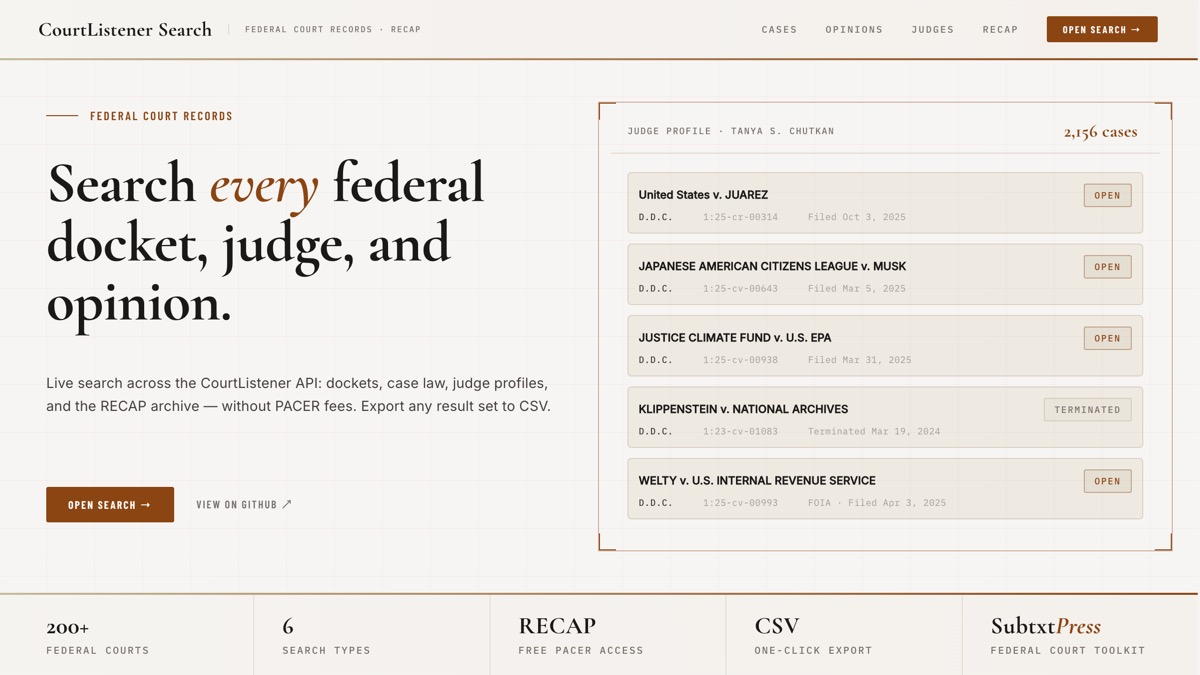
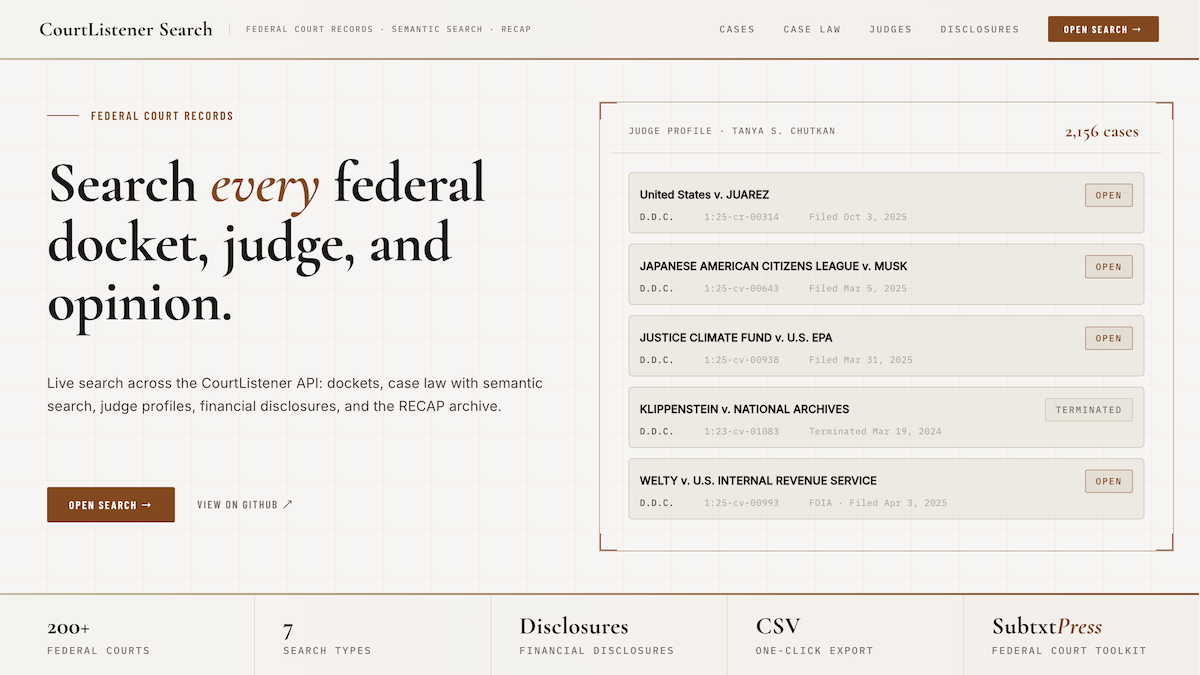
updated support files

diff --git a/projects/CourtListener/readme.html b/projects/CourtListener/readme.html
@@ -589,8 +589,8 @@
       </div>
       <div class="feature-card">
         <h3>Case Law Search</h3>
-        <p>Search published opinions and decisions by keyword, court, or citation.</p>
-        <span class="feature-tag">search tab</span>
+        <p>Search published opinions and decisions by keyword or natural language with semantic search.</p>
+        <span class="feature-tag hot">semantic search</span>
       </div>
       <div class="feature-card">
         <h3>Judge Lookup</h3>
@@ -601,6 +601,11 @@
         <h3>Judge Profile</h3>
         <p>One-click bio, positions, and recent assigned dockets for a single judge.</p>
         <span class="feature-tag hot">featured</span>
+      </div>
+      <div class="feature-card">
+        <h3>Judge Disclosures</h3>
+        <p>View a judge's financial disclosure filings — investments, positions, gifts, debts, and reimbursements by year.</p>
+        <span class="feature-tag hot">new</span>
       </div>
       <div class="feature-card">
         <h3>RECAP Archive</h3>
@@ -670,7 +675,7 @@
       <div class="step">
         <span class="step-num">1</span>
         <div class="step-body">
-          <p>Select a search type from the tabs: Cases, Opinions, Judges, Judge Profile, RECAP, or Courts.</p>
+          <p>Select a search type from the tabs: Cases, Case Law, Judges, Judge Profile, Judge Disclosures, RECAP Archive, or Courts.</p>
         </div>
       </div>
       <div class="step">
@@ -694,8 +699,13 @@
     </div>
 
     <div class="info-box info-neutral animate d4">
-      <div class="info-head">Judge Profile</div>
-      <p>The <strong>Judge Profile</strong> tab returns a single judge's bio, positions, and recent dockets in one view. The <strong>Export CSV</strong> button downloads that judge's full docket list.</p>
+      <div class="info-head">Semantic Search</div>
+      <p>On the <strong>Case Law</strong> tab, click the <code>&amp;</code>/<code>?</code> toggle to switch between keyword and semantic search. Semantic search finds cases by meaning — e.g., "tenant evicted for having a dog" finds pet-related housing cases, not just results containing those exact words. Wrap terms in "quotes" for hybrid keyword + semantic matching.</p>
+    </div>
+
+    <div class="info-box info-neutral animate d4">
+      <div class="info-head">Judge Profile &amp; Disclosures</div>
+      <p>The <strong>Judge Profile</strong> tab returns a single judge's bio, positions, and recent dockets in one view. The <strong>Judge Disclosures</strong> tab shows their financial disclosure filings — investments, outside positions, gifts, debts, and reimbursements organized by year.</p>
     </div>
 
     <!-- API Reference -->
@@ -710,9 +720,10 @@
         </thead>
         <tbody>
           <tr><td>GET /api/search/cases</td><td>Docket search by party, judge, court</td></tr>
-          <tr><td>GET /api/search/opinions</td><td>Case law search by keywords</td></tr>
+          <tr><td>GET /api/search/opinions</td><td>Case law search — add <code>&amp;semantic=true</code> for semantic search</td></tr>
           <tr><td>GET /api/search/judges</td><td>Judge lookup by name</td></tr>
           <tr><td>GET /api/judge-profile</td><td>Single-judge bio + recent assigned dockets</td></tr>
+          <tr><td>GET /api/judge-disclosures</td><td>Judge financial disclosures (investments, gifts, debts)</td></tr>
           <tr><td>GET /api/search/recap</td><td>RECAP archive search</td></tr>
           <tr><td>GET /api/courts</td><td>List all federal courts</td></tr>
           <tr><td>GET /api/case/{id}</td><td>Get single case details</td></tr>
@@ -726,14 +737,20 @@
       <div class="code-block"><code><span class="comment"># Search cases by party</span>
 curl "http://localhost:8000/api/search/cases?party=Apple&amp;limit=10"
 
-<span class="comment"># Search case law</span>
+<span class="comment"># Search case law (keyword)</span>
 curl "http://localhost:8000/api/search/opinions?query=patent&amp;court=cafc&amp;limit=10"
+
+<span class="comment"># Search case law (semantic — finds cases by meaning)</span>
+curl "http://localhost:8000/api/search/opinions?query=tenant+evicted+for+having+a+dog&amp;semantic=true&amp;limit=10"
 
 <span class="comment"># Find judges</span>
 curl "http://localhost:8000/api/search/judges?name=Roberts&amp;limit=10"
 
 <span class="comment"># Pull a full judge profile in one call</span>
-curl "http://localhost:8000/api/judge-profile?name=Tanya+Chutkan&amp;max_cases=25"</code></div>
+curl "http://localhost:8000/api/judge-profile?name=Tanya+Chutkan&amp;max_cases=25"
+
+<span class="comment"># Get a judge's financial disclosures</span>
+curl "http://localhost:8000/api/judge-disclosures?name=Chutkan"</code></div>
     </div>
 
     <div class="card animate d5">

diff --git a/projects/CourtListener/img/courtlistener-preview.html b/projects/CourtListener/img/courtlistener-preview.html
@@ -413,12 +413,12 @@
 
   <div class="nav">
     <span class="nav-brand">CourtListener Search</span>
-    <span class="nav-sub">Federal Court Records · RECAP</span>
+    <span class="nav-sub">Federal Court Records · Semantic Search · RECAP</span>
     <div class="nav-links">
       <span class="nav-link">Cases</span>
-      <span class="nav-link">Opinions</span>
+      <span class="nav-link">Case Law</span>
       <span class="nav-link">Judges</span>
-      <span class="nav-link">RECAP</span>
+      <span class="nav-link">Disclosures</span>
       <span class="nav-cta">Open Search →</span>
     </div>
   </div>
@@ -436,7 +436,7 @@
       </h1>
 
       <p class="desc">
-        Live search across the CourtListener API: dockets, case law, judge profiles, and the RECAP archive — without PACER fees. Export any result set to CSV.
+        Live search across the CourtListener API: dockets, case law with semantic search, judge profiles, financial disclosures, and the RECAP archive.
       </p>
 
       <div class="cta-row">
@@ -529,12 +529,12 @@
         <div class="stat-label">Federal Courts</div>
       </div>
       <div class="stat">
-        <div class="stat-value">6</div>
+        <div class="stat-value">7</div>
         <div class="stat-label">Search Types</div>
       </div>
       <div class="stat">
-        <div class="stat-value">RECAP</div>
-        <div class="stat-label">Free PACER Access</div>
+        <div class="stat-value">Disclosures</div>
+        <div class="stat-label">Financial Disclosures</div>
       </div>
       <div class="stat">
         <div class="stat-value">CSV</div>

diff --git a/projects/CourtListener/README.md b/projects/CourtListener/README.md
@@ -5,9 +5,11 @@ An interactive web interface for searching federal court data using the CourtLis
 ## Features
 
 - **Case/Docket Search** - Find cases by party name, judge, or court
-- **Case Law Search** - Search published opinions and decisions
+- **Case Law Search** - Search published opinions and decisions with keyword or semantic search
+- **Semantic Search** - Toggle between keyword (`&`) and semantic (`?`) search on the Case Law tab — find cases by meaning, not just exact words
 - **Judge Lookup** - Find federal judges by name and court
 - **Judge Profile** - One-click bio, positions, and recent assigned dockets for a single judge
+- **Judge Financial Disclosures** - View a judge's investments, positions, gifts, debts, and reimbursements by year
 - **RECAP Archive Search** - Access free PACER documents
 - **Court Directory** - Browse all available federal courts
 - **Court dropdown** - All federal courts populated from the API and cached per session
@@ -72,12 +74,14 @@ Open your browser to:
 
 ### Web Interface
 
-1. Select a search type from the tabs (Cases, Opinions, Judges, Judge Profile, RECAP, Courts)
+1. Select a search type from the tabs: Cases, Case Law, Judges, Judge Profile, Judge Disclosures, RECAP Archive, or Courts
 2. Enter your search criteria (party name, judge name, keywords, etc.) and pick a court from the dropdown if you want to narrow it
-3. Click "Search" to submit
-4. Results appear below with pagination controls
-5. Click **Export CSV** in the results header to download the current result set
-6. The Judge Profile tab returns a single judge's bio, positions, and recent dockets in one shot — Export CSV downloads the docket list
+3. On the **Case Law** tab, click the `&`/`?` toggle to switch between keyword and semantic search — semantic search finds cases by meaning, not just exact word matches
+4. Click "Search" to submit
+5. Results appear below with pagination controls
+6. Click **Export CSV** in the results header to download the current result set
+7. The **Judge Profile** tab returns a single judge's bio, positions, and recent dockets in one shot
+8. The **Judge Disclosures** tab shows a judge's financial disclosure filings — investments, outside positions, gifts, debts, and reimbursements
 
 ### API Endpoints
 
@@ -87,14 +91,20 @@ If you prefer to interact directly with the API:
 # Search cases by party
 curl "http://localhost:8000/api/search/cases?party=Apple&limit=10"
 
-# Search case law
+# Search case law (keyword)
 curl "http://localhost:8000/api/search/opinions?query=patent&court=cafc&limit=10"
+
+# Search case law (semantic — finds cases by meaning)
+curl "http://localhost:8000/api/search/opinions?query=tenant+evicted+for+having+a+dog&semantic=true&limit=10"
 
 # Find judges
 curl "http://localhost:8000/api/search/judges?name=Roberts&limit=10"
 
 # Pull a full judge profile (bio + recent dockets) in one call
 curl "http://localhost:8000/api/judge-profile?name=Tanya+Chutkan&max_cases=25"
+
+# Get a judge's financial disclosures
+curl "http://localhost:8000/api/judge-disclosures?name=Chutkan"
 
 # List federal courts
 curl "http://localhost:8000/api/courts"
@@ -110,9 +120,10 @@ See `http://localhost:8000/docs` for complete API documentation.
 ### Search Endpoints
 
 - `GET /api/search/cases` - Docket search by party, judge, court
-- `GET /api/search/opinions` - Case law search by keywords
+- `GET /api/search/opinions` - Case law search by keywords (add `&semantic=true` for semantic search)
 - `GET /api/search/judges` - Judge lookup by name
 - `GET /api/judge-profile` - Single-judge bio + recent assigned dockets
+- `GET /api/judge-disclosures` - Judge financial disclosures (investments, gifts, debts, positions)
 - `GET /api/search/recap` - RECAP archive search
 - `POST /api/search/advanced` - Combined filter search
 - `GET /api/courts` - List all federal courts
@@ -235,4 +246,4 @@ CourtListener data is provided under the terms of their API agreement. See [Cour
 
 ---
 
-**Last Updated**: April 27, 2026
+**Last Updated**: May 30, 2026
